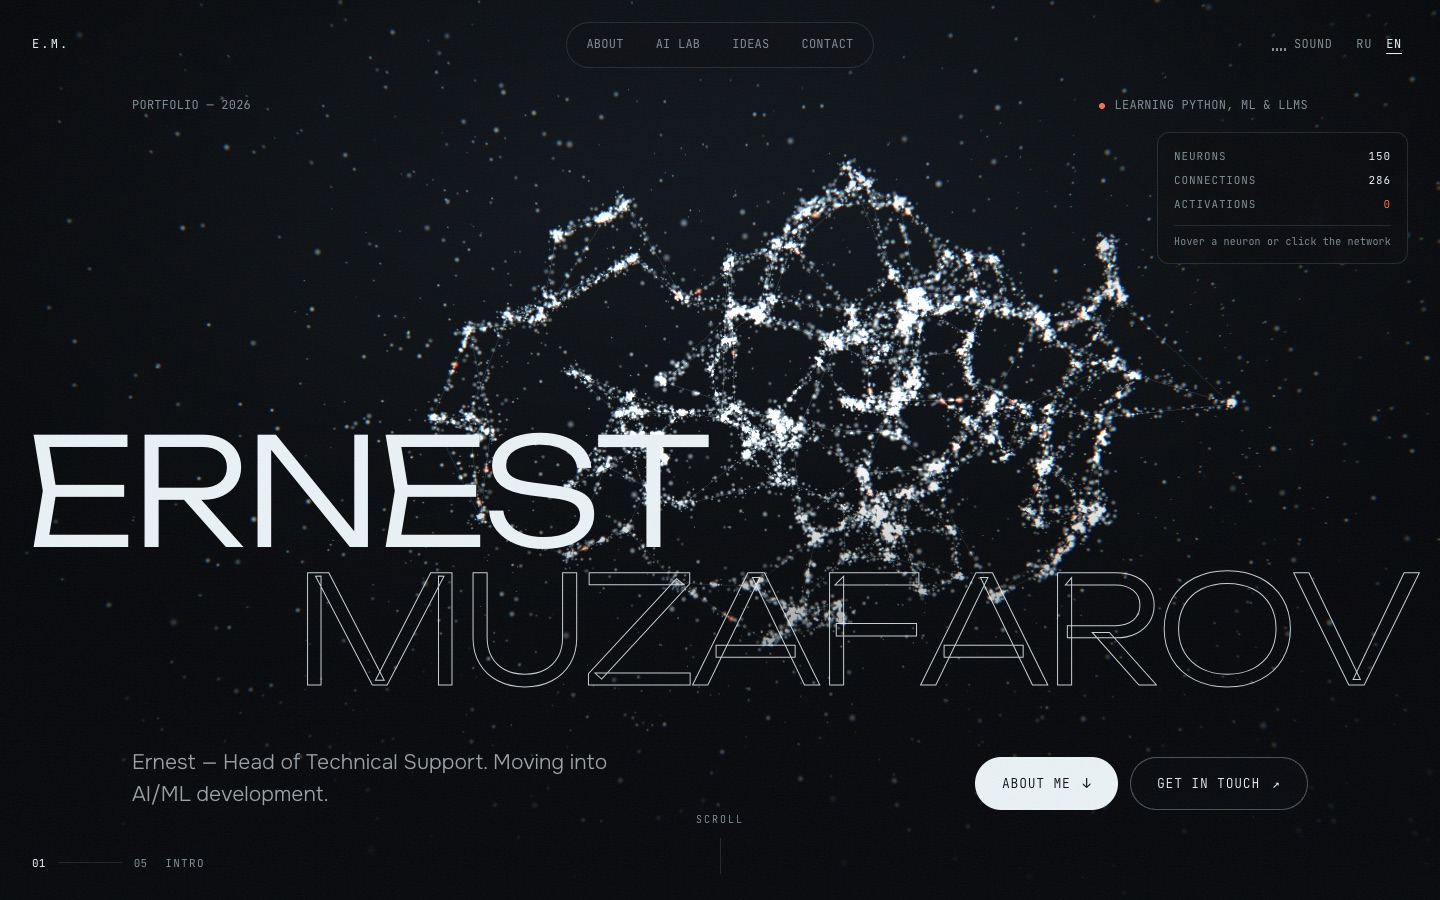
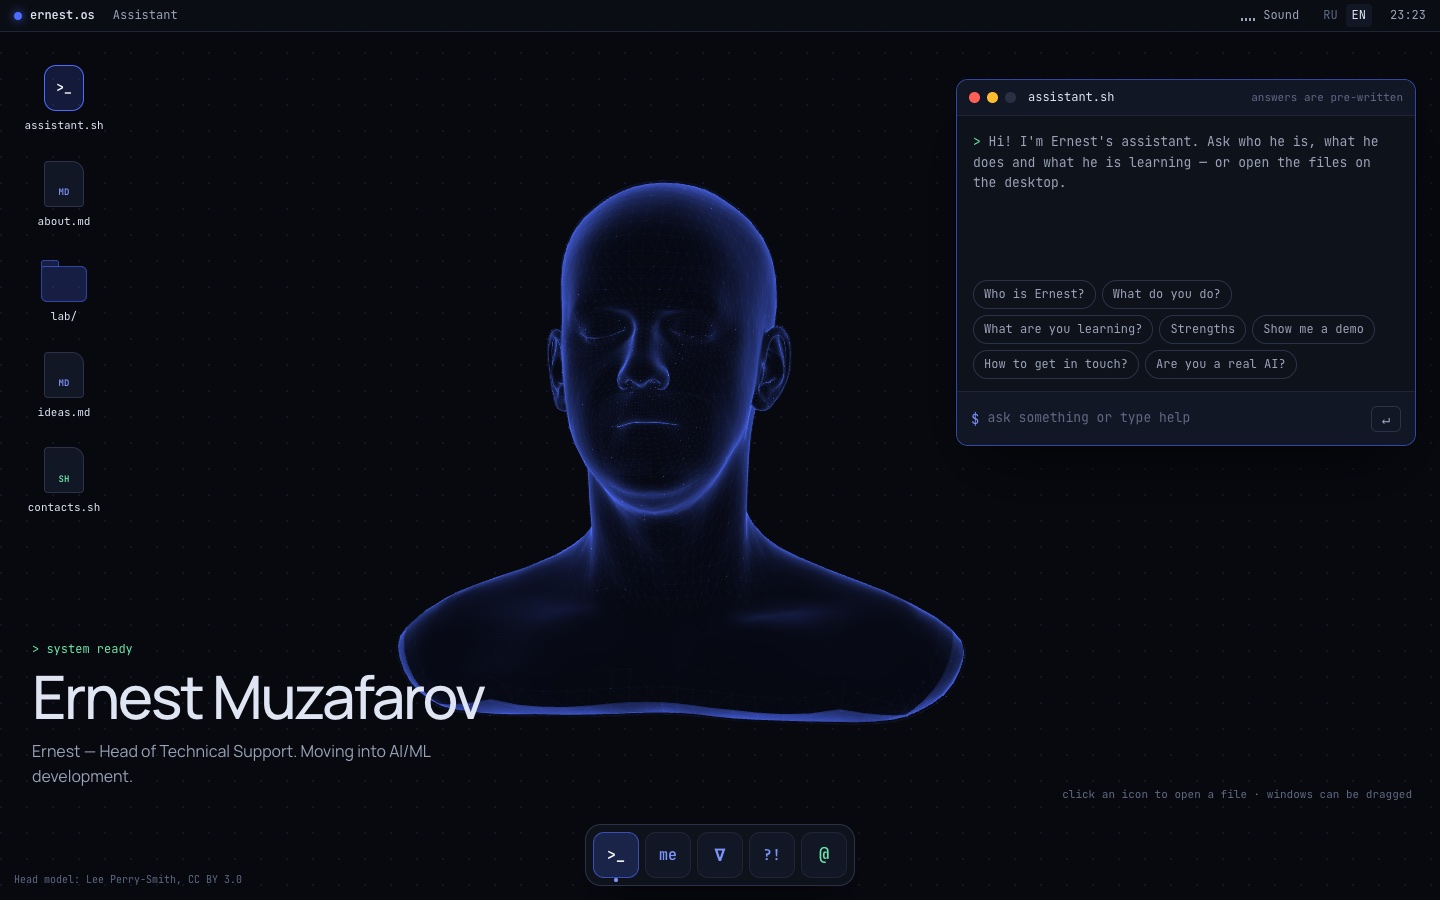
Update README and preview for ernest.os
Describe the desktop, windows, assistant and holographic head, add
credits for the head model; drop the unused RoomEnvironment helper.

diff --git a/README.md b/README.md
@@ -1,19 +1,19 @@
-<h1 align="center">Ernest Muzafarov — Portfolio</h1>
+<h1 align="center">ernest.os — portfolio</h1>
 
 <p align="center">
-  Personal portfolio website: a live particle neural network, a particle avatar<br />
-  and machine learning demos that run in your browser.
+  A personal portfolio built as a tiny operating system: a desktop with files and windows,<br />
+  an AI assistant you can talk to and a holographic 3D head on the wallpaper.
 </p>
 
 <p align="center">
-  <a href="https://ernestmuzafarov.tech"><img src="https://img.shields.io/badge/Live-ernestmuzafarov.tech-05070A?style=for-the-badge&logo=googlechrome&logoColor=9FC3D4" alt="Live site" /></a>
-  <img src="https://img.shields.io/badge/three.js-r128-05070A?style=for-the-badge&logo=threedotjs&logoColor=white" alt="three.js r128" />
-  <img src="https://img.shields.io/badge/Vanilla-JavaScript-05070A?style=for-the-badge&logo=javascript&logoColor=F7DF1E" alt="Vanilla JavaScript" />
-  <img src="https://img.shields.io/badge/No%20build-step-05070A?style=for-the-badge" alt="No build step" />
+  <a href="https://ernestmuzafarov.tech"><img src="https://img.shields.io/badge/Live-ernestmuzafarov.tech-07090F?style=for-the-badge&logo=googlechrome&logoColor=7D93FF" alt="Live site" /></a>
+  <img src="https://img.shields.io/badge/three.js-r128-07090F?style=for-the-badge&logo=threedotjs&logoColor=white" alt="three.js r128" />
+  <img src="https://img.shields.io/badge/Vanilla-JavaScript-07090F?style=for-the-badge&logo=javascript&logoColor=F7DF1E" alt="Vanilla JavaScript" />
+  <img src="https://img.shields.io/badge/No%20build-step-07090F?style=for-the-badge" alt="No build step" />
 </p>
 
 <p align="center">
-  <a href="https://ernestmuzafarov.tech"><img src="docs/preview.jpg" alt="Hero screen: a particle neural network behind the name" width="900" /></a>
+  <a href="https://ernestmuzafarov.tech"><img src="docs/preview.jpg" alt="ernest.os desktop: file icons, a holographic head and the assistant window" width="900" /></a>
 </p>
 
 <p align="center">
@@ -24,45 +24,44 @@
 
 ## English
 
-### Features
+### How it works
 
-- **Live neural network on the hero.** 150 neurons linked to their nearest neighbours, with signals travelling along the links. Hover a neuron to fire it, click to send a wave through the network. The counters (neurons, connections, activations) are real numbers taken from the scene.
-- **One 3D scene for the whole page.** About 14,000 particles reshape for each section: neural network → orbit → loss landscape → spiral galaxy → the name, which spells a link's label when you hover it.
-- **Particle avatar** instead of a photo: a silhouette with a small network inside, particles scatter away from the cursor and a scan line passes over it.
-- **AI lab**, all computed in the browser:
-  - *How a neuron learns:* place points of two classes and train a single neuron (logistic regression) or a network with a hidden layer of 8 neurons using gradient descent. The "Circle" preset shows why one neuron is not enough.
-  - *Gradient descent:* pick a start point on a loss surface and watch the steps. Push the learning rate too high and the descent diverges; on the "Hills" surface it gets stuck in a local minimum.
-  - *How an LLM picks a word:* next-token probabilities after softmax with temperature, sampling one word or twenty at a time. The probabilities are illustrative and say so on the page.
-- **Two languages** (RU / EN) from a single text object, auto-detected from the browser and remembered.
-- **Details:** preloader, custom cursor, magnetic buttons, letters that react to the cursor, scroll-driven marquee, smooth scroll, optional ambient sound synthesised with Web Audio (off by default).
+- **Boot screen.** A short system log, skippable with a click.
+- **Desktop.** Files on the left (`assistant.sh`, `about.md`, `lab/`, `ideas.md`, `contacts.sh`), a dock at the bottom and a top bar with RU / EN, sound and a clock.
+- **Windows.** Open from an icon or the dock, drag by the title bar, close with the red button or Esc. On phones they open full screen, like apps.
+- **Assistant.** Opens right after boot. Pick a suggested question or type your own: it matches keywords, types out the answer and opens the matching window. The answers are pre-written from the site's own texts, and the assistant says so when asked whether it is a real AI.
+- **Holographic head.** A dark silhouette with a glowing blue rim, a wireframe mesh, a scan line running top to bottom and signals flying through the mesh. It follows the cursor and "talks" while the assistant is typing: the scan and the signals speed up.
 
-### Performance and accessibility
+### Windows
 
-- Animations pause when their part of the page is off screen.
-- Fewer particles and a lower pixel ratio on phones.
-- `prefers-reduced-motion`: no smooth scroll, no entrance animations, static frames instead of animation.
-- If three.js or Lenis fails to load from the CDN, the site still works without the 3D scene and with native scrolling.
+| File | What is inside |
+| --- | --- |
+| `assistant.sh` | Chat with the assistant |
+| `about.md` | About, strengths and learning progress drawn as terminal bars |
+| `~/lab` | Three demos computed in the browser: a neuron and a hidden-layer network learning with gradient descent, gradient descent on a loss surface, next-token sampling with temperature |
+| `ideas.md` | Problems I want to learn to solve with AI — directions to explore, not finished projects |
+| `contacts.sh` | Telegram, GitHub, LinkedIn |
 
 ### Tech stack
 
 | Part | Technology |
 | --- | --- |
-| Markup and styles | HTML, CSS (custom properties, `backdrop-filter`, `clip-path`) |
-| 3D scene | three.js r128: custom GLSL shaders for points, chromatic aberration post-processing |
-| Demos and avatar | Canvas 2D, plain JavaScript |
-| Smooth scroll | Lenis 1.1 |
-| Sound | Web Audio API |
+| Markup and styles | HTML, CSS |
+| 3D head | three.js r128, custom GLSL shaders, GLTFLoader |
+| Window manager, assistant, demos | Plain JavaScript, Canvas 2D |
+| Sound | Web Audio API, synthesised, off by default |
 | Hosting | GitHub Pages with a custom domain |
 
 ### Project structure
 
 ```text
-index.html      page markup; every text node has a data-i18n key
-style.css       styles
-script.js       settings at the top, then all the code
-favicon.svg     tab icon
-docs/           README images
-CNAME           custom domain for GitHub Pages
+index.html                 desktop, windows and dock; texts come from data-i18n keys
+style.css                  styles
+script.js                  settings and texts at the top, then all the code
+assets/models/head.glb     3D head model
+assets/vendor/             GLTFLoader from the three.js r128 examples
+docs/                      README images
+CNAME                      custom domain for GitHub Pages
 ```
 
 ### Editing content
@@ -70,37 +69,40 @@ CNAME           custom domain for GitHub Pages
 Everything you are likely to change sits at the top of `script.js`:
 
 - `CONTACTS` — Telegram, GitHub, LinkedIn;
-- `LEARNING` — learning progress. Each step has `status: 'done' | 'current' | 'todo'`; the percentage is calculated automatically, or set `progress: 40` by hand;
-- `I18N` — all texts in Russian and English. Wrap a word in `*asterisks*` to render it as an outlined accent.
+- `LEARNING` — learning progress. Each step has `status: 'done' | 'current' | 'todo'`; the bars and the assistant's "What are you learning?" answer update from it;
+- `I18N` — all texts in Russian and English, including the boot log (`os`) and the assistant's questions and answers (`assistant`).
 
-### Hosting
+Keywords for free-text questions are in `KEYWORDS` right after the settings.
 
-The site is hosted on GitHub Pages with a custom domain: [ernestmuzafarov.tech](https://ernestmuzafarov.tech).
+### Credits
+
+- Head model: Lee Perry-Smith, licensed under [CC BY 3.0](https://creativecommons.org/licenses/by/3.0/), taken from the [three.js examples](https://threejs.org/examples/#webgl_decals).
+- [three.js](https://threejs.org/) and its GLTFLoader, MIT license.
 
 ---
 
 ## Русский
 
-Личный сайт-портфолио.
+Сайт-портфолио в виде маленькой операционной системы.
 
 **Что на сайте:**
 
-- **Живая нейросеть на первом экране:** 150 нейронов со связями, по которым бегут сигналы. Нейрон срабатывает от наведения курсора, клик запускает волну по сети. Счётчики показывают настоящие числа из сцены.
-- **Единая 3D-сцена:** около 14 000 частиц перестраиваются под каждый раздел — нейросеть, орбита, рельеф функции ошибки, галактика и имя. В контактах при наведении на ссылку частицы складываются в её название.
-- **Нейро-аватар из частиц** вместо фото.
-- **ИИ-лаборатория** работает прямо в браузере:
-  - обучение нейрона и сети со скрытым слоем;
-  - градиентный спуск по поверхности ошибки;
-  - выбор следующего слова в LLM с температурой.
-- **Два языка** (RU / EN), адаптив под телефоны, учёт `prefers-reduced-motion`.
+- **Загрузка системы**, её можно пропустить кликом.
+- **Рабочий стол:** файлы `assistant.sh`, `about.md`, `lab/`, `ideas.md`, `contacts.sh`, док и верхняя панель с RU / EN, звуком и часами.
+- **Окна** открываются из иконок и дока, их можно таскать и закрывать (кнопкой или Esc). На телефоне окна открываются на весь экран.
+- **ИИ-ассистент** открыт сразу после загрузки. Он отвечает на готовые вопросы и на свободный текст по ключевым словам и сам открывает нужное окно. Ответы написаны заранее из текстов сайта, и на вопрос «Ты настоящий ИИ?» ассистент честно об этом говорит.
+- **Голова-голограмма на обоях:** светящаяся сетка, линия сканирования и сигналы. Она следит за курсором и «говорит», пока ассистент печатает ответ.
+- **Лаборатория** с тремя демками, всё считается в браузере.
 
 **Где менять:** всё в начале `script.js`:
 
 - `CONTACTS` — контакты;
 - `LEARNING` — прогресс обучения;
-- `I18N` — тексты на двух языках.
+- `I18N` — тексты на двух языках, включая загрузку и ответы ассистента.
 
 **Хостинг:** GitHub Pages, домен [ernestmuzafarov.tech](https://ernestmuzafarov.tech).
+
+**Модель головы:** Lee Perry-Smith, CC BY 3.0, из примеров three.js.
 
 ---
 
